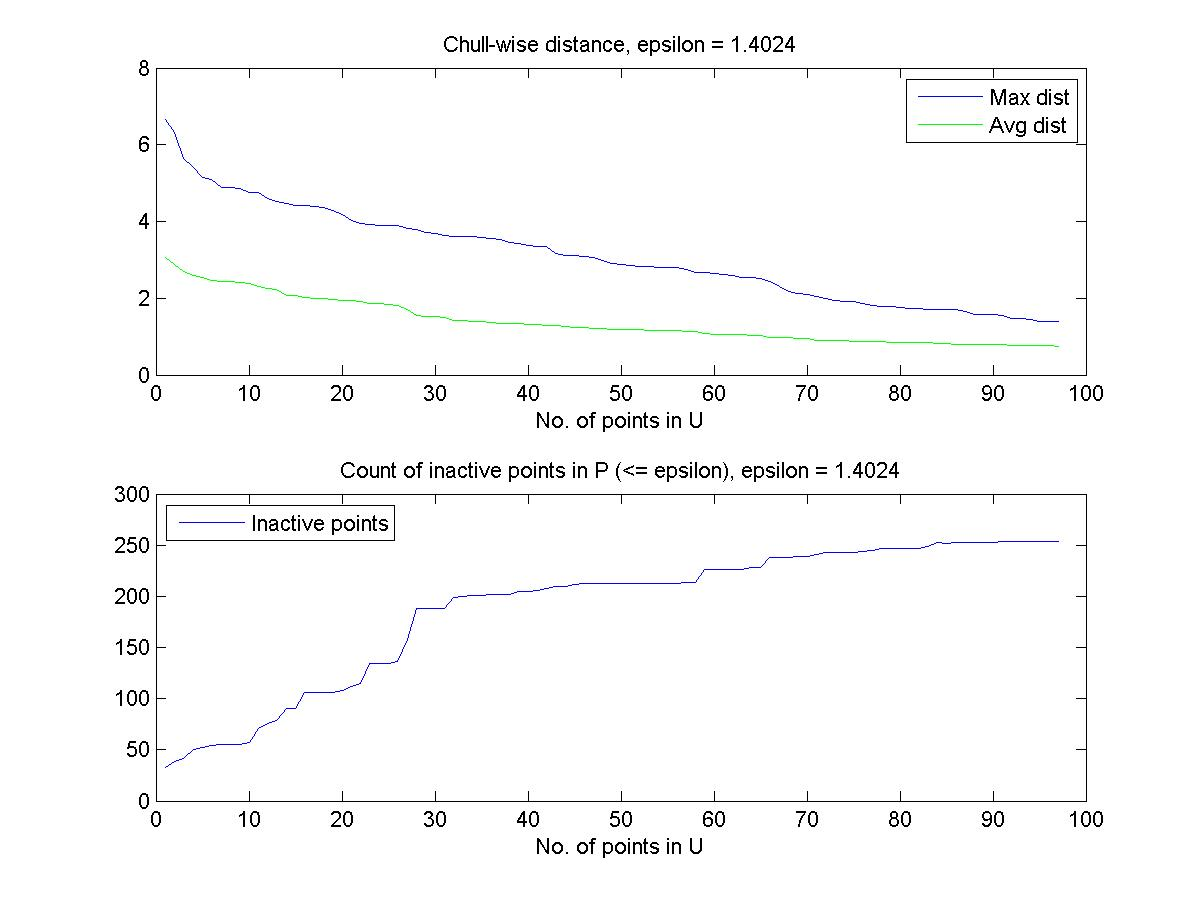
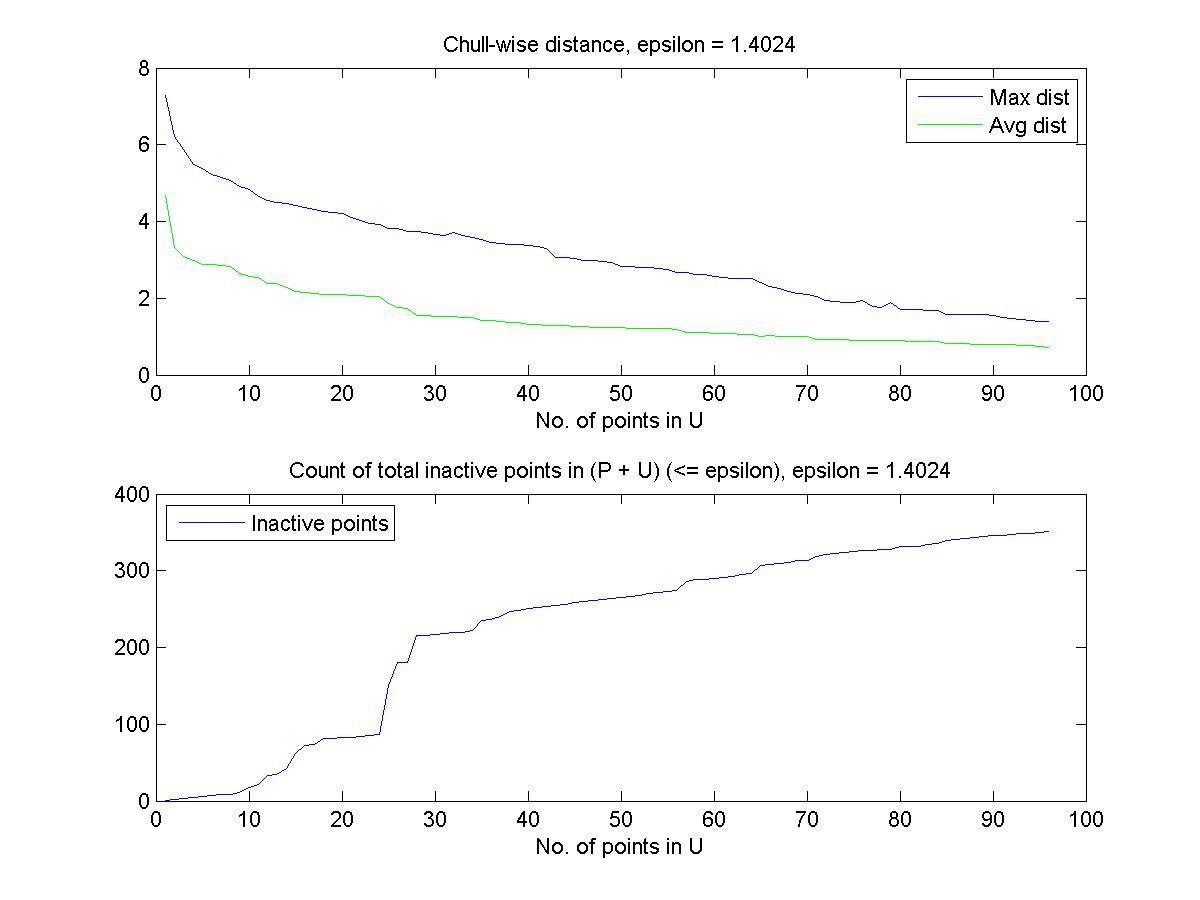
corrected code for inactive points plot

diff --git a/plot_chull.m b/plot_chull.m
@@ -1,7 +1,7 @@
 % P = U*X
 % P = d*n matrix, U = d*k matrix, X = k*n matrix
 tic;
-for iter = 1:1
+for iter = 1:10
     clearvars -except iter;
     % Setting Constants
     %epsilon = 1;
@@ -9,11 +9,12 @@ for iter = 1:1
 
     % Importing data and converting to the matrix form
     % ----- CHANGE HERE (specify file)---------------
-    P = csvread('wdbc-mod.csv');
+    P = csvread('ionosphere_mod.csv');
     P = P'; 
     %P = P(:, 1:150);
     [d, n] = size(P);
     
+    %iterations = d;
     % Choosing epsilon
     closest = pdist2(P', P', 'euclidean', 'Smallest', 2);
     %epsilon = min(closest(2, :)); % Dist between closest two points
@@ -34,14 +35,14 @@ for iter = 1:1
     dist_array = zeros(1, n);
     dist_array(1) = max_dist;
     
-    display(D);
-    display(max_dist);
+    %display(D);
+    %display(max_dist);
     
     avg_dist_array = zeros(1, n);
     avg_dist_array(1) = mean(D);
 
     count_inactive = zeros(1, n);
-    count_inactive(1) = sum(D <= epsilon);
+    count_inactive(1) = sum(D <= epsilon) + 1;
 
     flag = 0;
     for i = 2:n
@@ -60,9 +61,8 @@ for iter = 1:1
                 [max_dist, max_index] = max(D);
                 dist_array(i) = max_dist;
                 avg_dist_array(i) = mean(D);
-                count_inactive(i) = sum(D <= epsilon);
-                display(D);
-                display(max_dist);
+                count_inactive(i) = sum(D <= epsilon) + i;
+                %display(max_dist);
             end
         end
         fprintf('End of iteration:%d\n', i);
@@ -94,12 +94,12 @@ for iter = 1:1
 
     subplot(2, 1, 2);
     plot(count_inactive);
-    title(['Count of inactive points in P (<= epsilon), epsilon = ' num2str(epsilon)]);
+    title(['Count of total inactive points in (P + U) (<= epsilon), epsilon = ' num2str(epsilon)]);
     xlabel('No. of points in U');
     legend('Inactive points', 'Location', 'NorthWest');
     display(iter);
     % ------ CHANGE HERE(specify directory)-----------
-    saveas(Chull_wise, ['Output-wdbc\Heuristic\chull-wise' num2str(iter) '_epsilon=' num2str(epsilon) '.jpg']);
+    saveas(Chull_wise, ['Output-iono\Heuristic\chull-wise' num2str(iter) '_epsilon=' num2str(epsilon) '.jpg']);
     
     % -------- Approximating points in P with various sparsity levels -----
     dist_with_sparsity = zeros(1, d);
@@ -117,7 +117,7 @@ for iter = 1:1
     refline(0, epsilon);
     
     % ------ CHANGE HERE(specify directory)-----------
-    saveas(Avg_cost, ['Output-wdbc\Heuristic\Cost_with_sparsity' num2str(iter) '_epsilon=' num2str(epsilon) '.jpg']);
+    saveas(Avg_cost, ['Output-iono\Heuristic\Cost_with_sparsity' num2str(iter) '_epsilon=' num2str(epsilon) '.jpg']);
     
     
 %     % Evaluate X using matrix multiplication

diff --git a/plot_point_wise.m b/plot_point_wise.m
@@ -41,7 +41,7 @@ for iter = 1:10
     avg_dist_array(1) = mean(D);
 
     count_inactive = zeros(1, n);
-    count_inactive(1) = sum(D <= epsilon);
+    count_inactive(1) = sum(D <= epsilon) + 1;
 
     flag = 0;
     for i = 2:n
@@ -60,7 +60,7 @@ for iter = 1:10
                 [max_dist, max_index] = max(D);
                 dist_array(i) = max_dist;
                 avg_dist_array(i) = mean(D);
-                count_inactive(i) = sum(D <= epsilon);
+                count_inactive(i) = sum(D <= epsilon) + i;
             end
         end
         fprintf('End of iteration:%d\n', i);

diff --git a/plot_line_wise.m b/plot_line_wise.m
@@ -42,7 +42,7 @@ for iter = 2:2
     avg_dist_array(1) = mean(D);
 
     count_inactive = zeros(1, n);
-    count_inactive(1) = sum(D <= epsilon);
+    count_inactive(1) = sum(D <= epsilon) + 1;
 
     flag = 0;
     for i = 2:n
@@ -62,7 +62,7 @@ for iter = 2:2
                 [max_dist, max_index] = max(D);
                 dist_array(i) = max_dist;
                 avg_dist_array(i) = mean(D);
-                count_inactive(i) = sum(D <= epsilon);
+                count_inactive(i) = sum(D <= epsilon) + i;
             end
         end
         fprintf('End of iteration:%d\n', i);
